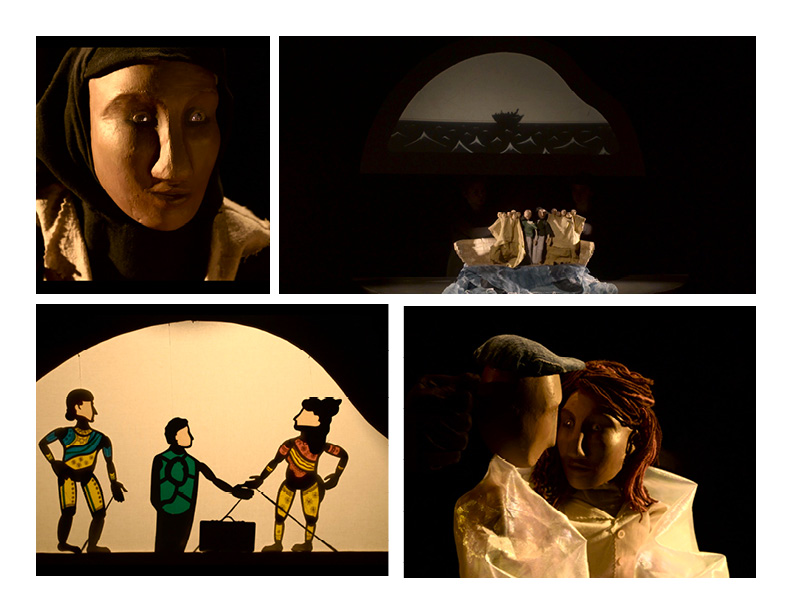
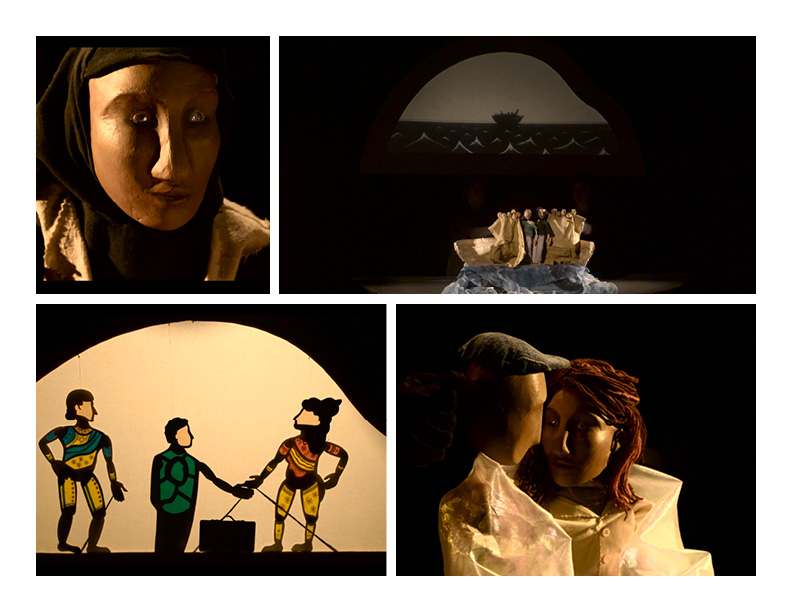
updating pages

diff --git a/_posts/2015-05-09-lantern-cards.md b/_posts/2015-05-09-lantern-cards.md
@@ -4,7 +4,7 @@ subtitle: Illustration
 layout: default
 modal-id: 7
 date: 2014-07-18
-img: lantern-cards.jpg
+img: lantern-cards-page.jpg
 thumbnail: lantern-cards.jpg
 alt: image-alt
 project-date: April 2014

diff --git a/_posts/2011-05-12-workshops.md b/_posts/2011-05-12-workshops.md
@@ -4,7 +4,7 @@ subtitle: Creative Facilitation
 layout: default
 modal-id: 2
 date: 2014-07-18
-img: workshops.jpg
+img: workshops-page.jpg
 thumbnail: workshops.jpg
 alt: image-alt
 project-date: April 2014
